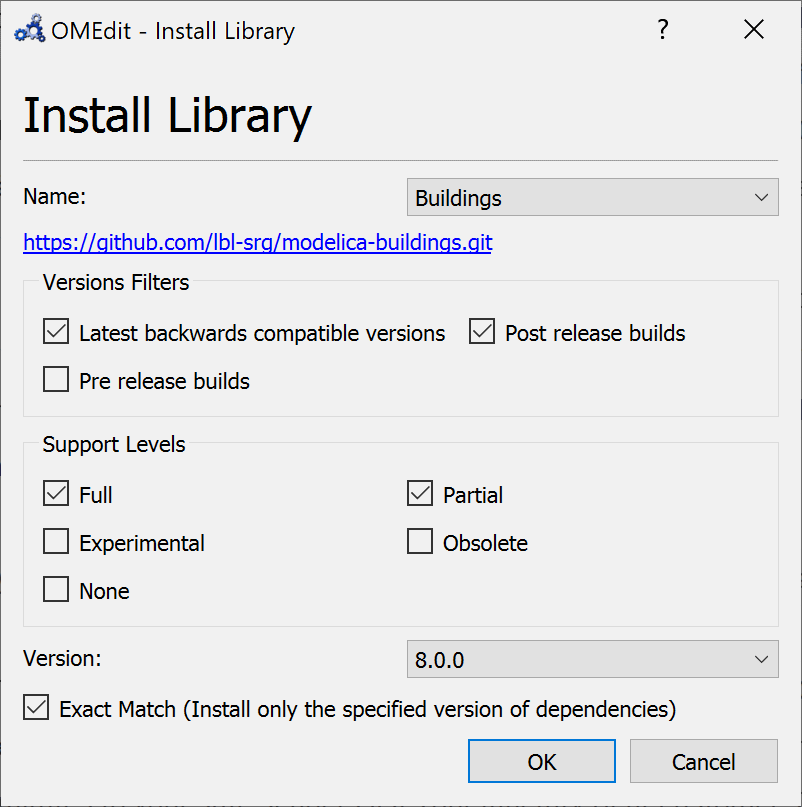
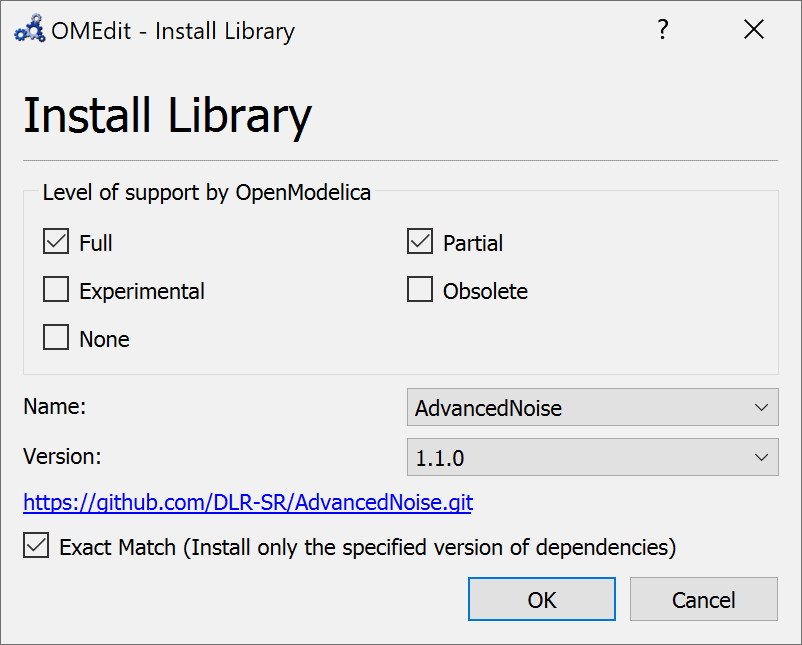
Updated package manager documentation
Fixes #8147
Added API and OMEdit cross references.
Updated OMEdit screenshots.

diff --git a/doc/UsersGuide/source/packagemanager.rst b/doc/UsersGuide/source/packagemanager.rst
@@ -68,7 +68,7 @@ own Modelica packages. It can be run both from the OMEdit GUI and from the comma
 
 Note that the Package Manager may install multiple builds of the same library version on your PC, if they are indexed on the
 OSMC servers. When this happens, they are distinguished among each other by means of
-`semver <https://https://semver.org/#semantic-versioning-specification-semver>`_-style pre- or post-release metadata in the
+`semver <https://semver.org/#semantic-versioning-specification-semver>`_-style pre- or post-release metadata in the
 top directory name on the file system. Post-release builds are denoted by a plus sign (e.g. ``2.0.0+build.02``)
 and have higher priority over the corresponding plain release
 (e.g. ``2.0.0``), while pre-release builds are denoted by a minus sign (e.g. ``2.0.0-dev.30``) and have a lower priority.
@@ -83,15 +83,18 @@ In any case, semver version semantics is only used to order the releases, while 
 is determined exclusively on the basis of ``noneFromVersion`` annotations.
 
 Package Management in OMEdit
-^^^^^^^^^^^^^^^^^^^^^^^^^^^^^^^^^^^
-TBD: Show how to install new packages and manage installed ones
+^^^^^^^^^^^^^^^^^^^^^^^^^^^^
+
+:ref:`Installing a new library in OMEdit <omedit-install-library>`.
 
 Running Conversion Scripts in OMEdit
 ^^^^^^^^^^^^^^^^^^^^^^^^^^^^^^^^^^^^
-TBD: Show how to run conversion scripts in OMEdit
+
+:ref:`Converting a library in OMEdit <omedit-convert-library>`.
 
 Automatically Loaded Packages in OMEdit
 ^^^^^^^^^^^^^^^^^^^^^^^^^^^^^^^^^^^^^^^^
+
 When you start OMEdit, some packages are automatically loaded into the environment, and shown in the Libraries
 Browser. You can configure which ones are loaded from the Tools|Options|Libraries menu.
 
@@ -124,23 +127,23 @@ Using the Package Manager from the Interactive Environment
 ^^^^^^^^^^^^^^^^^^^^^^^^^^^^^^^^^^^^^^^^^^^^^^^^^^^^^^^^^^
 
 The Package Manager can also be used from the Interactive Environment command line shell. Here is a list
-of examples of relevant commands; please type them followed by ``getErrorString()``,
-e.g., ``updatePackageIndex();getErrorString()``, in order to get additional information,
+of examples of relevant commands; please type them followed by ``:ref:`getErrorString```,
+e.g., ``:ref:`updatePackageIndex`;:ref:`getErrorString```, in order to get additional information,
 notifications and error messages.
 
-- ``updatePackageIndex()``: this command puts the Package Manager in contact with the OSMC servers and updates
-    the internally stored list of available packages;
-- ``getAvailablePackageVersions(Buildings, "")``: lists all available versions of the Buildings library on the OSMC server,
-   starting from the most recent one, in descending order of priority. Note that pre-release versions have lower priority
-   than all other versions;
-- ``getAvailablePackageVersions(Buildings, "7.0.0")``: lists all available versions of the Buildings library on
-   the OSMC server that are backwards-compatible with version ``7.0.0``, in descending order of priority;
-- ``installPackage(Buildings, "")``:install the most recent version of the Building libraries, *and all its dependencies*;
-- ``installPackage(Buildings, "7.0.0")``: install the most recent version of the Building libraries which is backwards-compatible
-    with version ``7.0.0``, *and all its dependencies*;
-- ``installPackage(Buildings, "7.0.0", exactMatch = true)``: install version ``7.0.0`` even if there are more recent
-    backwards-compatible versions available, *and all its dependencies*;
-- ``upgradeInstalledPackages(installNewestVersions = true)``: installs the latest available version of all installed packages.
+- ``:ref:`updatePackageIndex```: this command puts the Package Manager in contact with the OSMC servers and updates
+  the internally stored list of available packages;
+- ``:ref:`getAvailablePackageVersions`(Buildings, "")``: lists all available versions of the Buildings library on the OSMC server,
+  starting from the most recent one, in descending order of priority. Note that pre-release versions have lower priority
+  than all other versions;
+- ``:ref:`getAvailablePackageVersions`(Buildings, "7.0.0")``: lists all available versions of the Buildings library on
+  the OSMC server that are backwards-compatible with version ``7.0.0``, in descending order of priority;
+- ``:ref:`installPackage`(Buildings, "")``: install the most recent version of the Building libraries, *and all its dependencies*;
+- ``:ref:`installPackage`(Buildings, "7.0.0")``: install the most recent version of the Building libraries which is backwards-compatible
+  with version ``7.0.0``, *and all its dependencies*;
+- ``:ref:`installPackage`(Buildings, "7.0.0", exactMatch = true)``: install version ``7.0.0`` even if there are more recent
+  backwards-compatible versions available, *and all its dependencies*;
+- ``:ref:`upgradeInstalledPackages`(installNewestVersions = true)``: installs the latest available version of all installed packages.
 
 How the package index works
 ---------------------------

diff --git a/doc/UsersGuide/source/omedit.rst b/doc/UsersGuide/source/omedit.rst
@@ -1720,6 +1720,8 @@ MSL but if you really need to and understand the consequences then follow these 
 -  Add *$OPENMODELICAHOME/lib/omlibrary/Modelica X.X/package.mo* under user libraries.
 -  Restart OMEdit.
 
+.. _omedit-install-library :
+
 Install Library
 ---------------
 
@@ -1732,10 +1734,12 @@ that are available for installation through the package manager.
 
   Install Library.
 
-Upgrade Libraries using Conversion Scripts
+.. _omedit-convert-library :
+
+Convert Libraries using Conversion Scripts
 ------------------------------------------
 
-In order to upgrade the libraries used in the model/package right-click the model/package in the
+In order to convert the libraries right-click the model/package in the
 `Libraries Browser` and choose `Convert to newer versions of used libraries`. OMEdit will read the used
 libraries from the uses-annotation and list any new version of the library that provide the conversion
 using the conversion script.
